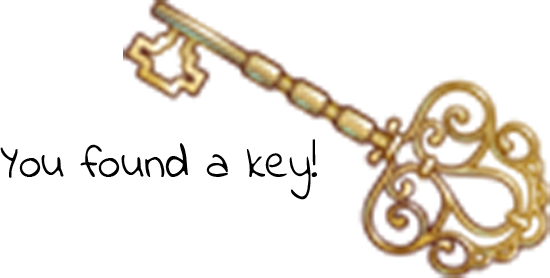
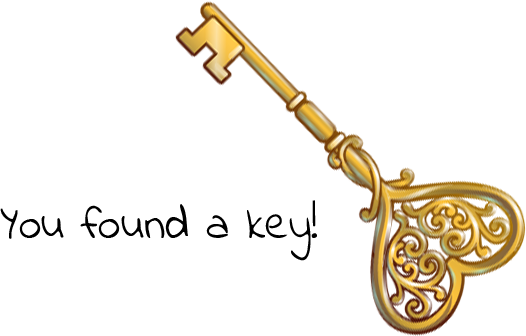
Started on positioning for the key hallway and finished positioning for escape room.

Changed region(s): [[0.2129, 0.0, 1.0, 1.0], [0.1521, 0.4892, 0.6084, 0.777], [0.0, 0.518, 0.1217, 0.7194]]

diff --git a/templates/key-hall.html b/templates/key-hall.html
@@ -16,26 +16,68 @@
 
 <body>
 
-    <img class="backgroundPic" src="{{url_for('static', filename='hallway-with-key.jpg')}}">
+    <div class="imageStack">
 
-    <!-- Add the overlay showing a zoomed-in depiction of the sign on the wall. -->
-    <img id="keyHallSign" src="{{url_for('static', filename='key-room-sign.png')}}">
+        <!-- Add the background image. -->
+        <div class="bottomOfTheStack">
+            <img class="backgroundPic" src="{{url_for('static', filename='hallway-with-key.jpg')}}">
+        </div>
 
-    <!-- Add a navigation block (an invisible shape that can be clicked on) over the entrance to the next hallway.
-         If the user clicks on it, they will be taken to the next room. -->
-    <a href="/mirror-room"><img id="keyHallNavBlock"
+        <!-- Add the overlay showing a zoomed-in depiction of the sign on the wall. -->
+        <div class="notesAndSignsLayer">
+            <img id="keyHallSign" src="{{url_for('static', filename='key-room-sign.png')}}">
+        </div>
+
+        <!-- Add a navigation block (an invisible shape that can be clicked on) over the entrance to the next hallway.
+             If the user clicks on it, they will be taken to the next room. -->
+        <div class="navBlockLayer1">
+            <a href="/mirror-room"><img id="keyHallNavBlock"
                               src="{{url_for('static', filename='key-hallway-navigation-block.png')}}"></a>
+        </div>
 
-    <!-- Add an invisible image overlaying the sign on the wall, so that when the user presses and holds on the sign,
-         a pop-up showing the sign zoomed-in appears. -->
-    <img id="keyHallwaySignNavBlock" src="{{url_for('static', filename='key-hallway-sign-navigation-block.png')}}"
-                                onmousedown="showSign('keyRoom')" onmouseup="removeSign('keyRoom')">
+        <div class="navBlockLayer2">
+            <!-- Add an invisible image overlaying the sign on the wall, so that when the user presses and holds on the sign,
+            a pop-up showing the sign zoomed-in appears. -->
+            <img id="keyHallwaySignNavBlock" src="{{url_for('static', filename='key-hallway-sign-navigation-block.png')}}"
+                              onmousedown="showSign('keyRoom')" onmouseup="removeSign('keyRoom')">
+        </div>
 
-    <!-- Add a small key to the background that the user can click on. -->
-    <img id="keyHallSmallKey" src="{{url_for('static', filename='key1.png')}}" onclick="keyTaken('keyHall')">
+        <div class="backgroundKeyLayer">
+            <!-- Add a small key to the background that the user can click on. -->
+            <img id="keyHallSmallKey" src="{{url_for('static', filename='key1.png')}}" onclick="keyTaken('keyHall')">
+        </div>
 
-    <!-- Add a large key as a zoomed-in pop-up when the user picks up the key. -->
-    <img id="keyHallBigKey" src="{{url_for('static', filename='key-found1.png')}}">
+        <div class="keyPopUpLayer">
+            <!-- Add a large key as a zoomed-in pop-up when the user picks up the key. -->
+            <img id="keyHallBigKey" src="{{url_for('static', filename='key-found1.png')}}">
+        </div>
+
+        <!-- Add the UI. -->
+        <div class="uiBarLayer" id="keyHallUIBarLayer">
+            <!-- Add the blue background for the UI buttons. -->
+            <img class="uiBar" id="keyHallUIBar" src="{{url_for('static', filename='ui-bar.png')}}">
+        </div>
+
+        <div class="uiBarIconsLayer" id="keyHallIconsLayer">
+            <!-- Add the icons to the UI bar. -->
+            <img class="inventoryKey1" id="keyHallInv1" src="{{url_for('static', filename='inventory-key-1.png')}}">
+            <img class="inventoryKey2" id="keyHallInv2" src="{{url_for('static', filename='inventory-key-2.png')}}">
+            <img class="saveIcon" id="keyHallSaveIcon" src="{{url_for('static', filename='save-icon.png')}}">
+            <!-- Clicking on the exit icon should take the user to the website's home page. -->
+            <a href="/"><img class="exitIcon" id="keyHallExitIcon" src="{{url_for('static', filename='exit-icon.png')}}">
+                </a>
+        </div>
+
+        <div id="topOfTheKeyHallStack">
+            <!-- Vignette. -->
+            <img class="backgroundPic" class="vignette" src="{{url_for('static', filename='vignette.png')}}">
+        </div>
+
+    </div>
+
+
+
+
 
     <!-- Add an arrow so that the user can choose to go back to the previous room. -->
     <a href="/beach"><img id="keyHallArrow"

diff --git a/templates/escape-room.html b/templates/escape-room.html
@@ -14,7 +14,35 @@
 
 <body>
 
-    <img class="backgroundPic" src="{{url_for('static', filename='outside.jpg')}}">
+    <div class="imageStack">
+
+        <!-- Add the background image with a congratulatory message. -->
+        <div class="bottomOfTheStack">
+            <img class="backgroundPic" src="{{url_for('static', filename='outside.jpg')}}">
+        </div>
+
+        <!-- Add the UI. -->
+        <div class="uiBarLayer" id="escapeRoomUIBarLayer">
+            <!-- Add the blue background for the UI buttons. -->
+            <img class="uiBar" id="escapeRoomUIBar" src="{{url_for('static', filename='ui-bar.png')}}">
+        </div>
+
+        <div class="uiBarIconsLayer" id="escapeRoomIconsLayer">
+            <!-- Add the icons to the UI bar. -->
+            <img class="inventoryKey1" id="escapeInv1" src="{{url_for('static', filename='inventory-key-1.png')}}">
+            <img class="inventoryKey2" id="escapeInv2" src="{{url_for('static', filename='inventory-key-2.png')}}">
+            <img class="saveIcon" id="escapeSaveIcon" src="{{url_for('static', filename='save-icon.png')}}">
+            <!-- Clicking on the exit icon should take the user to the website's home page. -->
+            <a href="/"><img class="exitIcon" id="escapeExitIcon" src="{{url_for('static', filename='exit-icon.png')}}">
+                </a>
+        </div>
+
+        <div id="topOfTheEscapeRoomStack">
+            <!-- Vignette. -->
+            <img class="backgroundPic" class="vignette" src="{{url_for('static', filename='vignette.png')}}">
+        </div>
+
+    </div>
 
 </body>
 

diff --git a/static/myStyle.css b/static/myStyle.css
@@ -326,7 +326,7 @@
     height: 7vw;
     grid-column: 1.5;
     grid-row: 14;
-    margin-top: 65vh;
+    margin-top: 60vh;
     margin-left: 2.5vw;
     pointer-events: auto;
 }
@@ -421,16 +421,12 @@
 /* HALLWAY WITH KEY */
 
 #keyHallSign {
-    margin-top: -900px;
-    margin-left: 378px;
-    margin-bottom: 1250px;
     /* Make this sign invisible to start with. The user has to click on the small image on the wall
        to make this sign come up as a zoomed-in image. */
-    opacity: 0%;
+    opacity: 100%;
     /* This piece of code allows users to click on items that lie within the area taken up by the sign. */
     pointer-events: none;
     z-index: 3;
-    position: relative;
 }
 
 #keyHallNavBlock {
@@ -558,7 +554,6 @@
     margin-left: 37vw;
     pointer-events: auto;
     opacity: 0%;
-    
 }
 
 #phantasmRoomUIBarLayer{
@@ -576,6 +571,30 @@
 }
 
 #topOfThePhantasmRoomStack{
+    grid-column: 1;
+    grid-row: 1;
+    z-index: 9;
+    pointer-events: none;
+}
+
+/* ESCAPE ROOM */
+
+#escapeRoomUIBarLayer {
+    z-index: 2;
+    pointer-events: none;
+}
+
+#escapeRoomIconsLayer {
+    z-index: 3;
+    pointer-events: none;
+}
+
+#escapeRoomInv1, #escapeRoomInv2 {
+    z-index: 4;
+    pointer-events: none;
+}
+
+#topOfTheEscapeRoomStack{
     grid-column: 1;
     grid-row: 1;
     z-index: 9;

diff --git a/templates/beach.html b/templates/beach.html
@@ -15,6 +15,7 @@
 </head>
 
 <body>
+
 <div class = "body-structure">
     <img class="backgroundPic" src="{{url_for('static', filename='beach-room.jpg')}}">
 
@@ -40,7 +41,6 @@
     <!-- Add the key pop-up for when the user clicks on the chest. -->
     <img id="beachRoomBigKey" src="{{url_for('static', filename='key-found2.png')}}">
 </div>
- 
 
 </body>
 

diff --git a/templates/bear-room.html b/templates/bear-room.html
@@ -34,6 +34,7 @@
                               src="{{url_for('static', filename='bear-room-tunnel-2-navigation-block.png')}}"></a>
         </div>
 
+        <!-- Add NPC and dialogue elements. -->
         <div class="npcLayer">
             <img id="wendyImage" src="{{url_for('static', filename='wendy.png')}}">
         </div>
